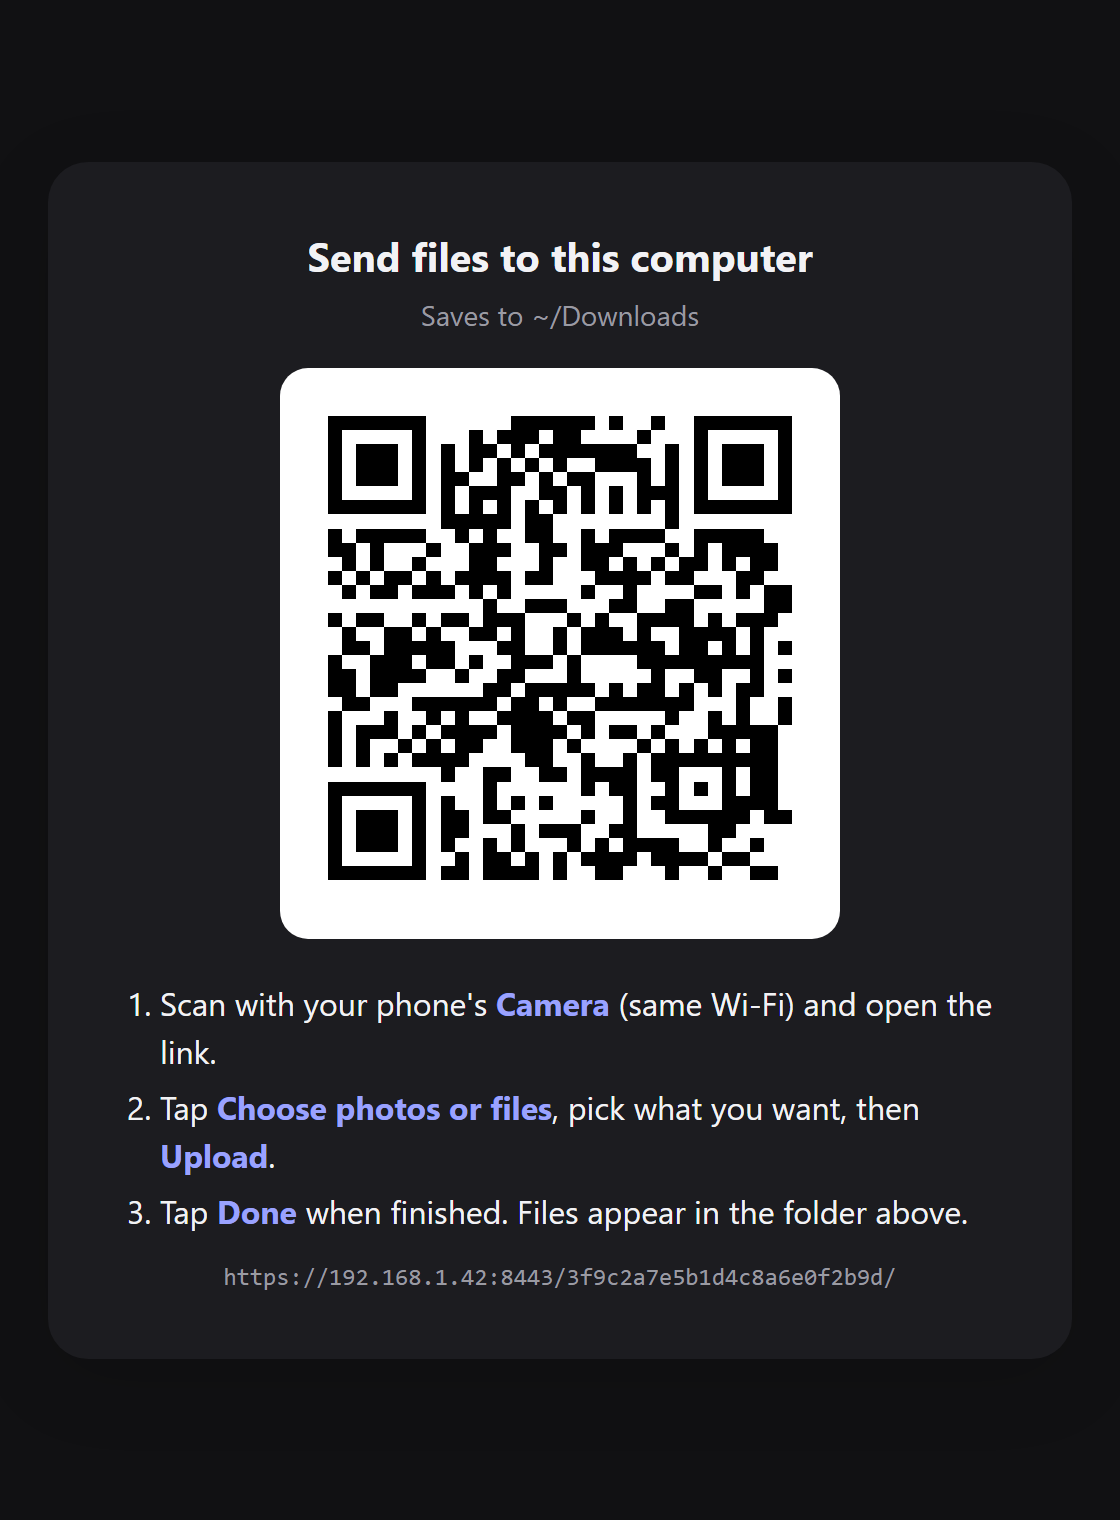
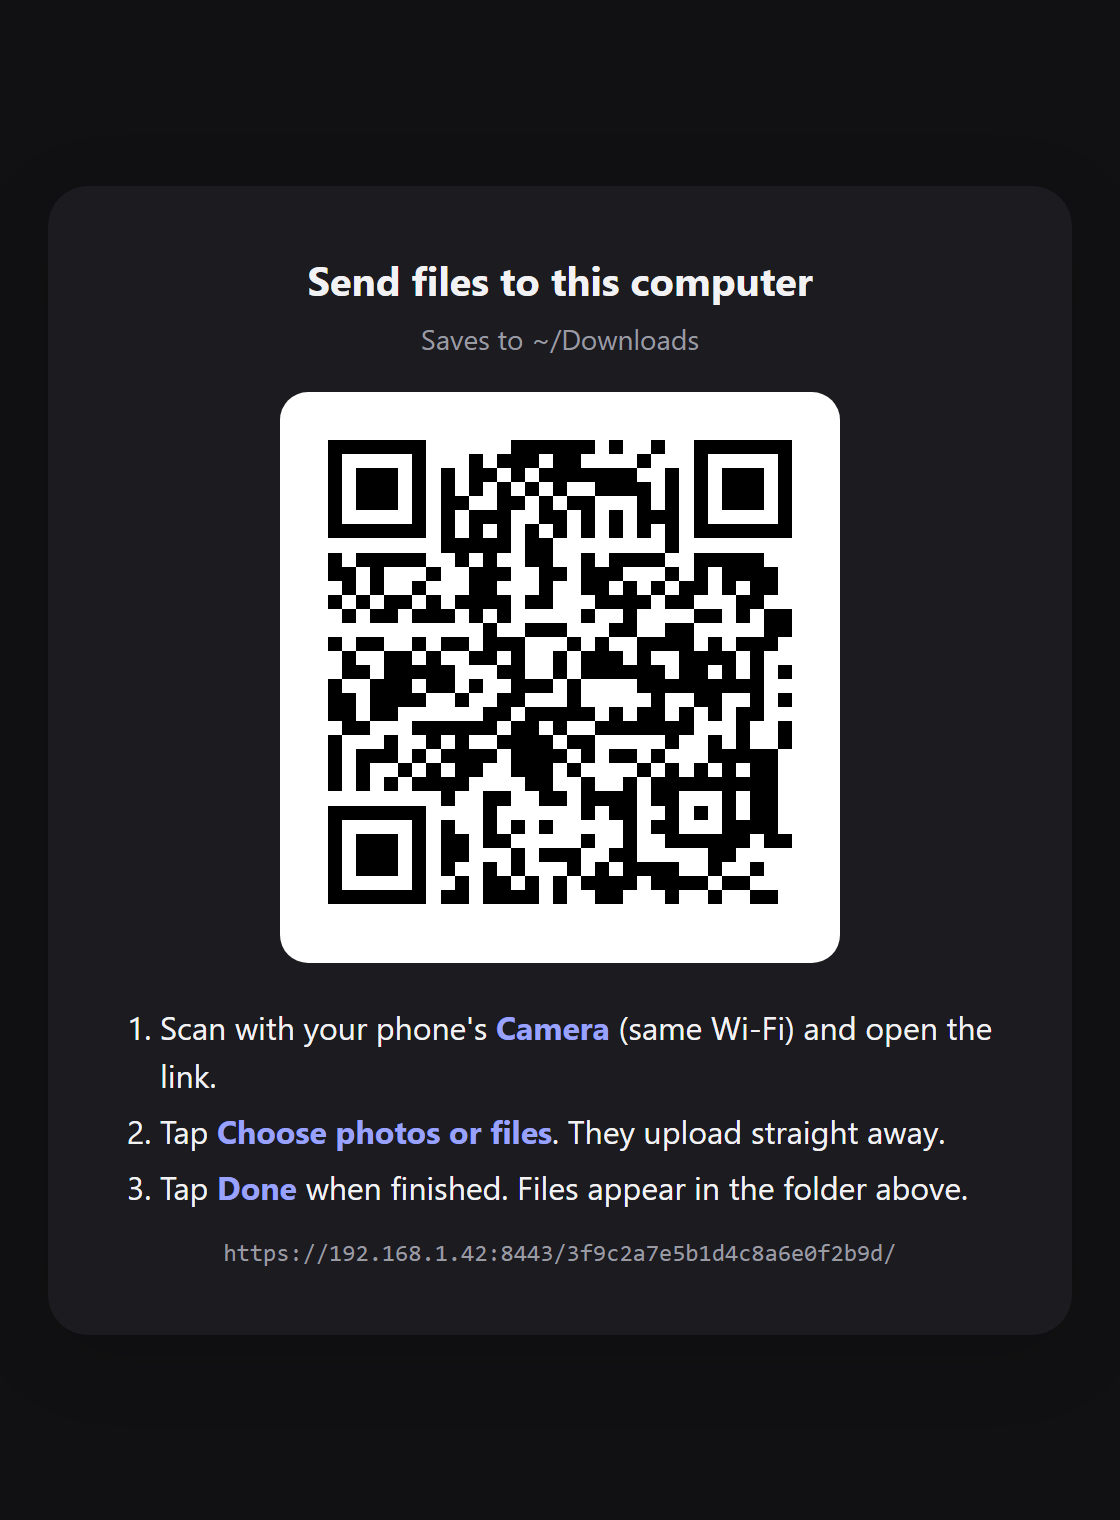
Redesign the phone upload page and feature receive in the README
- New upload page: header with computer name and an Encrypted/Local
  Wi-Fi badge, photo thumbnails, overall progress, per-file retry,
  connection-lost notice and a success screen.
- Files upload as soon as they're picked (no separate Upload tap).
- README shows both directions side by side at the top.

Changed region(s): [[0.0938, 0.1546, 0.9062, 0.8658]]

diff --git a/README.md b/README.md
@@ -8,15 +8,25 @@ Claude:  starts a one-shot server and opens a QR page in your browser
 Phone:   Camera → scan → Download → done
 
 You:     "let me upload some photos from my phone"
-Phone:   Camera → scan → choose photos → Upload → they land in ~/Downloads
+Phone:   Camera → scan → choose photos → they upload and land in ~/Downloads
 ```
 
-<p align="center">
+<table align="center">
+<tr>
+<td align="center" valign="top"><b>Computer → phone</b><br><sub>Scan, tap Download</sub><br><br>
   <picture>
     <source media="(prefers-color-scheme: dark)" srcset="docs/images/download-page-dark.png">
-    <img src="docs/images/download-page.png" width="360" alt="The 'Download to your phone' page: a QR code with three steps underneath">
+    <img src="docs/images/download-page.png" width="300" alt="The 'Download to your phone' page: a QR code with three steps underneath">
   </picture>
-</p>
+</td>
+<td align="center" valign="top"><b>Phone → computer</b><br><sub>Scan, pick photos, they upload</sub><br><br>
+  <picture>
+    <source media="(prefers-color-scheme: dark)" srcset="docs/images/phone-upload-dark.png">
+    <img src="docs/images/phone-upload.png" width="230" alt="The upload page on the phone, with photos and files uploading">
+  </picture>
+</td>
+</tr>
+</table>
 
 - **Both directions:** computer → phone (download) and phone → computer (upload).
 - **Zero setup:** works with any phone (iPhone or Android) and any file type. Nothing to install on the phone.
@@ -127,9 +137,11 @@ Claude opens a QR page on your computer:
 </p>
 
 1. Scan the QR code with your phone's **Camera** and open the link. The upload page on the right opens.
-2. Tap **Choose photos or files**. Pick from your photo library, camera or Files, and select as many as you like.
-3. Tap **Upload**. Each file shows its own progress bar.
+2. Tap **Choose photos or files** and pick from your photo library, the camera or Files. Select as many as you like.
+3. They **upload straight away**. You see a thumbnail and progress bar for each file, plus the total. Want more? Pick again; they join the queue.
 4. Tap **Done** when you're finished.
+
+The page shows your computer's name and whether the connection is **Encrypted** (after the [HTTPS setup](#optional-one-time-https-setup)) or plain **Local Wi-Fi**. If an upload fails, tap **Retry** next to it.
 
 The files land in your **Downloads** folder, or in the folder you named or [configured](#configuration).
 

diff --git a/skills/receive/SKILL.md b/skills/receive/SKILL.md
@@ -6,7 +6,7 @@ argument-hint: "[destination folder]"
 
 # Phone Drop: receive
 
-Phone → computer. Starts a one-shot server and opens a QR page in the browser. The user scans it, and the phone opens an upload page. They pick photos or files and tap **Upload**; each file goes straight onto this computer. Nothing leaves the local network.
+Phone → computer. Starts a one-shot server and opens a QR page in the browser. The user scans it, and the phone opens an upload page. They pick photos or files, which upload straight away onto this computer. Nothing leaves the local network.
 
 Script: `node "${CLAUDE_PLUGIN_ROOT}/scripts/phone-drop.mjs"`
 
@@ -14,7 +14,7 @@ Script: `node "${CLAUDE_PLUGIN_ROOT}/scripts/phone-drop.mjs"`
 
 1. **Destination.** By default files go to the configured *Receive folder* (or `~/Downloads` if none is set). If the user names a folder (or passed one as `$ARGUMENTS`), resolve it to an absolute path and pass `--to "<dir>"`.
 2. **Start:** run `node "${CLAUDE_PLUGIN_ROOT}/scripts/phone-drop.mjs" receive [--to "<dir>"]` **with `run_in_background: true`**. It uses HTTPS if the one-time setup was done, otherwise HTTP (no setup needed).
-3. Tell the user in one or two lines what to do: scan the QR with the camera, open the link, tap **Choose photos or files**, then **Upload**, and tap **Done** when finished. Also give the `Link:` the script printed.
+3. Tell the user in one or two lines what to do: scan the QR with the camera, open the link, tap **Choose photos or files** (they upload immediately), and tap **Done** when finished. Also give the `Link:` the script printed.
 4. The server stops when the phone taps **Done**, after 2 minutes without new uploads (once at least one file has arrived), or at the timeout. When the background task finishes, list the received files (the script prints their full paths). If it's relevant, offer to do something with them.
 
 ## Notes
